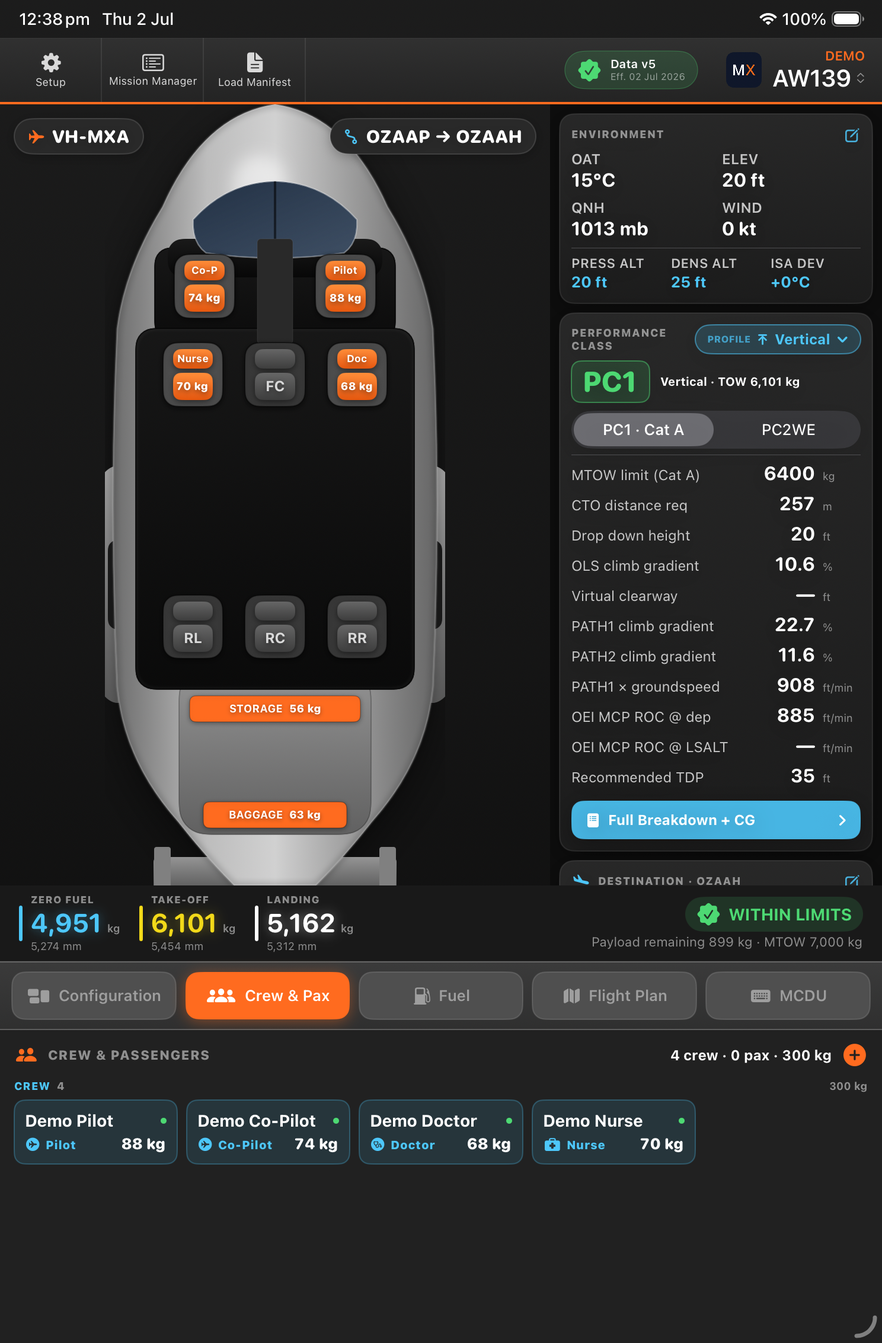
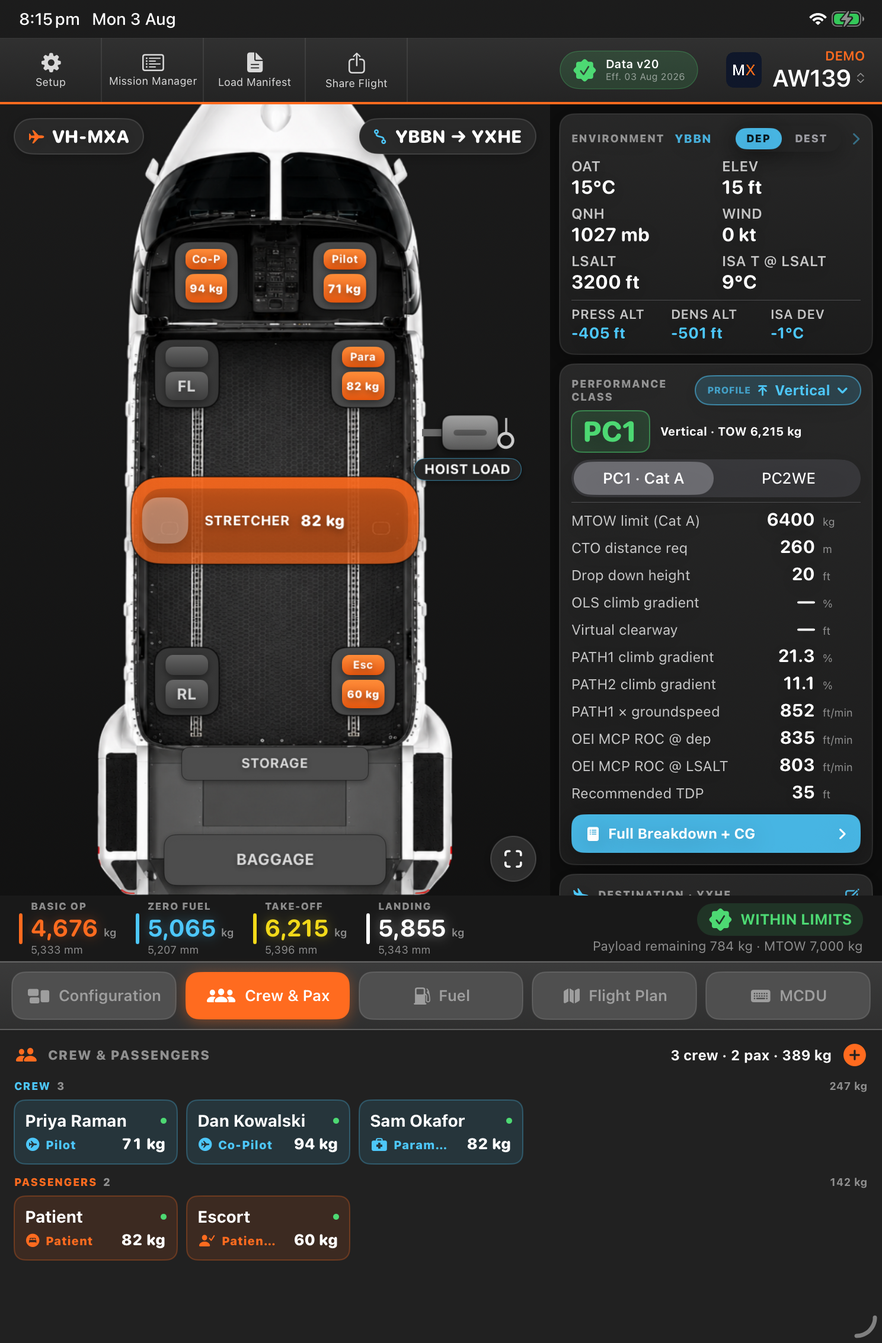
Update screenshots and showcase Mission Editor

diff --git a/index.html b/index.html
@@ -247,7 +247,7 @@ header.nav.scrolled{border-bottom-color:var(--line);background:rgba(7,10,16,.9)}
 .step p{color:var(--muted);font-size:.9rem}
 
 /* ---------- Gallery ---------- */
-.gallery{display:grid;grid-template-columns:repeat(5,1fr);gap:16px;margin-top:50px}
+.gallery{display:grid;grid-template-columns:repeat(6,1fr);gap:14px;margin-top:50px}
 .gallery .shot{border:1px solid var(--line);border-radius:14px;overflow:hidden;background:#0a0d14;transition:transform .25s,border-color .25s}
 .gallery .shot:hover{transform:translateY(-6px) scale(1.02);border-color:var(--orange)}
 .gallery .shot img{width:100%}
@@ -294,6 +294,31 @@ header.nav.scrolled{border-bottom-color:var(--line);background:rgba(7,10,16,.9)}
 .op-help{color:var(--muted);font-size:.88rem}
 .op-help a{color:var(--orange);font-weight:600}
 @media(max-width:980px){.op-grid{grid-template-columns:1fr;gap:36px}}
+
+/* ---------- Mac window frame + editor showcase ---------- */
+.macwin{position:relative;border-radius:14px;overflow:hidden;border:1px solid var(--line-strong);background:#0d1119;box-shadow:var(--shadow)}
+.macwin img{width:100%;display:block}
+.ed-hero{display:grid;grid-template-columns:1fr;gap:0;margin-top:46px}
+.ed-hero .macwin{transform:perspective(2000px) rotateX(2deg);transition:transform .6s}
+.ed-hero .macwin:hover{transform:none}
+.ed-caption{display:flex;flex-wrap:wrap;gap:10px;justify-content:center;margin-top:22px}
+.ed-chip{display:inline-flex;align-items:center;gap:8px;padding:8px 15px;border-radius:100px;font-size:.86rem;color:var(--muted);background:rgba(255,255,255,.04);border:1px solid var(--line)}
+.ed-chip b{color:#fff;font-weight:600}
+.ed-rows{margin-top:clamp(60px,8vw,100px);display:flex;flex-direction:column;gap:clamp(56px,8vw,96px)}
+.edrow{display:grid;grid-template-columns:1fr 1.25fr;gap:52px;align-items:center}
+.edrow.rev .ed-txt{order:2}.edrow.rev .ed-shot{order:1}
+.ed-txt h3{font-size:clamp(1.4rem,2.4vw,1.9rem);margin:16px 0 14px;letter-spacing:-.02em}
+.ed-txt p{color:var(--muted);font-size:1.02rem}
+.ed-tag{display:inline-flex;align-items:center;gap:8px;font-size:.74rem;font-weight:700;letter-spacing:.16em;text-transform:uppercase;color:var(--cyan);padding:6px 12px;border:1px solid rgba(77,199,250,.3);border-radius:100px;background:rgba(77,199,250,.08)}
+.ed-tag.new{color:var(--orange-soft);border-color:rgba(255,107,31,.35);background:rgba(255,107,31,.1)}
+.ed-mini{display:grid;grid-template-columns:repeat(3,1fr);gap:18px;margin-top:clamp(56px,7vw,88px)}
+.ed-mini .m{background:linear-gradient(160deg,var(--surface),var(--bg-2));border:1px solid var(--line);border-radius:16px;overflow:hidden;transition:transform .25s,border-color .25s}
+.ed-mini .m:hover{transform:translateY(-5px);border-color:var(--line-strong)}
+.ed-mini .m img{width:100%;display:block;border-bottom:1px solid var(--line)}
+.ed-mini .m .b{padding:18px 20px}
+.ed-mini .m h4{font-size:1rem;color:#fff;margin-bottom:6px}
+.ed-mini .m p{color:var(--muted);font-size:.87rem;line-height:1.5}
+@media(max-width:980px){.edrow{grid-template-columns:1fr;gap:28px}.edrow.rev .ed-txt,.edrow.rev .ed-shot{order:initial}.ed-mini{grid-template-columns:1fr}}
 
 /* ---------- Contact ---------- */
 .contact-grid{display:grid;grid-template-columns:.9fr 1.1fr;gap:56px;align-items:start}
@@ -425,10 +450,10 @@ footer{border-top:1px solid var(--line);margin-top:clamp(60px,9vw,110px);padding
     <div class="reveal">
       <span class="eyebrow">⬡ Mission Management · Weight · Balance · Performance</span>
       <h1>The mission-prep flight deck for your <span class="accent">whole fleet</span>.</h1>
-      <p class="lead">MissionXtra turns weight &amp; balance, performance, fuel, weather and risk into one fast, tap-driven iPad flight deck. The AW139 leads the way, with a growing list of rotary-wing types behind it — built by operational helicopter pilots for EMS, SAR and offshore operators.</p>
+      <p class="lead">MissionXtra turns weight &amp; balance, performance, fuel, weather, crew rostering and landing-site data into one fast, tap-driven iPad flight deck — paired with a Mac editor that keeps your whole fleet in sync. Built by operational helicopter pilots for EMS, SAR and offshore operators.</p>
       <div class="hero-cta">
-        <a href="#download" class="btn btn-primary btn-lg">Get MissionXtra</a>
-        <a href="#operator" class="btn btn-ghost btn-lg">Operator login</a>
+        <a href="#download" class="btn btn-primary btn-lg">Get the iPad app</a>
+        <a href="#editor" class="btn btn-ghost btn-lg">See the Mission Editor</a>
       </div>
       <div class="hero-meta">
         <span><i class="dot or"></i> Built natively in Swift</span>
@@ -443,11 +468,11 @@ footer{border-top:1px solid var(--line);margin-top:clamp(60px,9vw,110px);padding
         <div><b>Within limits</b><small>Live CG &amp; mass check</small></div>
       </div>
       <div class="badge-float bf-2">
-        <span class="ic" style="background:rgba(255,107,31,.15);color:var(--orange)">⛽</span>
-        <div><b>2:53 endurance</b><small>To reserve · live fuel</small></div>
+        <span class="ic" style="background:rgba(77,199,250,.15);color:var(--cyan)">📈</span>
+        <div><b>PC1 · Cat A</b><small>Live performance class</small></div>
       </div>
       <div class="ipad hero-ipad">
-        <img src="assets/screens/deck-fuel.png" alt="MissionXtra flight deck showing the AW139 seat map, environment, performance and fuel" loading="eager"/>
+        <img src="assets/screens/deck-hero.png" alt="MissionXtra flight deck showing the cabin seat map, environment, performance class and dual CG envelopes" loading="eager"/>
       </div>
     </div>
   </div>
@@ -473,11 +498,11 @@ footer{border-top:1px solid var(--line);margin-top:clamp(60px,9vw,110px);padding
     </div>
     <div class="cards">
       <div class="card reveal"><div class="ico">🧮</div><h3>Live tap-to-load W&amp;B</h3><p>Load crew, patients, equipment and fuel directly on a scaled aircraft fuselage. CG, limits and margins recompute instantly — no spreadsheet juggling.</p></div>
-      <div class="card cy reveal"><div class="ico">📈</div><h3>RFM-accurate performance</h3><p>RFM Cat A take-off procedures, WAT limits, OEI climb, CTO/RTO distances and Height-Velocity — computed for your exact conditions.</p></div>
-      <div class="card gd reveal"><div class="ico">🌦</div><h3>Live weather &amp; fuel</h3><p>METAR/TAF auto-fills per leg with no login. Endurance, time-to-reserve and below-reserve alerts at a glance.</p></div>
-      <div class="card cy reveal"><div class="ico">🗺</div><h3>Mission planning &amp; import</h3><p>Build multi-leg missions in seconds or AirDrop an OzRunways plan — legs, LSALT, fuel and ETAs parse straight in.</p></div>
-      <div class="card reveal"><div class="ico">🛡</div><h3>Risk assessment &amp; signed manifest</h3><p>A structured flight risk-assessment tool plus a professional, finger-signed A4 load manifest PDF — shared in a tap.</p></div>
-      <div class="card gd reveal"><div class="ico">✈</div><h3>MCDU read-across</h3><p>A faithful AW139 PERFORMANCE INIT-KG CDU page so you can transcribe straight into the aircraft FMS.</p></div>
+      <div class="card cy reveal"><div class="ico">📈</div><h3>Obstacle-aware performance</h3><p>Five RFM take-off procedures and four landing techniques, with the app solving for the lowest TDP that clears your obstacle — and flagging when you fall outside PC1.</p></div>
+      <div class="card gd reveal"><div class="ico">📍</div><h3>Your own HLS register</h3><p>Surveyed landing sites with their real approach and departure obstacles — pre-filling the performance page the moment a leg lands there.</p></div>
+      <div class="card cy reveal"><div class="ico">🌦</div><h3>Weather that follows the plan</h3><p>Departure METAR at take-off, destination TAF at ETA — auto-refreshed per leg, with area-QNH fallback for off-aerodrome sites.</p></div>
+      <div class="card reveal"><div class="ico">🗓</div><h3>Shift roster, synced</h3><p>Day and night crews rostered per base in the editor, published to every iPad — so the right crew loads with one tap.</p></div>
+      <div class="card gd reveal"><div class="ico">📋</div><h3>Manifest, report &amp; share</h3><p>A signed A4 load manifest, an end-of-mission flight report, and one-tap AirDrop of the whole flight to another crew's iPad.</p></div>
     </div>
   </div>
 </section>
@@ -498,16 +523,17 @@ footer{border-top:1px solid var(--line);margin-top:clamp(60px,9vw,110px);padding
           <li><span class="tick">✓</span><div><b>SUPP kit MTOW handling</b><small>6,400 → 6,800 → 7,000 kg, driven by each tail's fitted kits.</small></div></li>
         </ul>
       </div>
-      <div class="fmedia"><div class="glow"></div><div class="ipad"><img src="assets/screens/cg-envelope.png" alt="Dual CG envelope charts with the loading line"/></div></div>
+      <div class="fmedia"><div class="glow"></div><div class="ipad"><img src="assets/screens/load-manifest.png" alt="Signed A4 load manifest with item table and dual CG envelope charts"/></div></div>
     </div>
 
     <div class="feature-row rev reveal">
       <div class="ftext">
         <span class="eyebrow">Crew &amp; Cabin</span>
-        <h2>Your roster, weights and configs — already loaded</h2>
-        <p>Crew names and weights sync from your operator, so you stop re-entering them every flight. Switch cabin configurations — IHT, 12-pax, winch — and watch every limit and station update live.</p>
+        <h2>Today's crew, already on the aircraft</h2>
+        <p>Your operator rosters day and night crews per base in the Mission Editor. The iPad knows which shift is on now — load the whole crew with one tap, with weights already verified. Switch cabin configurations and every limit and station updates live.</p>
         <ul class="flist">
-          <li><span class="tick">✓</span><div><b>Synced crew directory</b><small>Name auto-fill with weights maintained centrally.</small></div></li>
+          <li><span class="tick">✓</span><div><b>One-tap shift crew</b><small>The roster for this base and this shift, loaded and seated.</small></div></li>
+          <li><span class="tick">✓</span><div><b>Roster-change advisory</b><small>Tells you who's in and who's out — seats are never changed without you.</small></div></li>
           <li><span class="tick">✓</span><div><b>Per-config equipment toggles</b><small>Fit or remove items and add ad-hoc equipment for this flight.</small></div></li>
           <li><span class="tick">✓</span><div><b>Placard &amp; station overload detection</b><small>Master-caution alert names the exact violation.</small></div></li>
         </ul>
@@ -519,14 +545,15 @@ footer{border-top:1px solid var(--line);margin-top:clamp(60px,9vw,110px);padding
       <div class="ftext">
         <span class="eyebrow">Fuel · Weather · Route</span>
         <h2>Every leg gets the forecast for <em>its</em> time</h2>
-        <p>Build a route from ICAO codes or lat/long, or import the plan you already made. Per-leg TAF interpolation, area QNH fallback for scene sites and terrain-grid elevation mean usable weather even off-aerodrome — with endurance and reserves front and centre.</p>
+        <p>Build a route from ICAO codes or lat/long, or import the plan you already made. The app pulls the departure METAR for take-off and the destination TAF for your ETA — with area-QNH fallback for scene sites and terrain elevation for bare coordinates.</p>
         <ul class="flist">
+          <li><span class="tick">✓</span><div><b>Weather follows the flight plan</b><small>Departure and destination refresh per leg, automatically.</small></div></li>
           <li><span class="tick">✓</span><div><b>OzRunways .ozpln import</b><small>Fly the plan you built — no re-keying.</small></div></li>
-          <li><span class="tick">✓</span><div><b>BoM → PilotAssist → NOAA fallback</b><small>Real conditions, no separate subscription.</small></div></li>
+          <li><span class="tick">✓</span><div><b>Per-leg configurations</b><small>Depart in one fit, return in another — each leg keeps its own.</small></div></li>
           <li><span class="tick">✓</span><div><b>Endurance &amp; below-reserve alerting</b><small>Instant fuel-state confidence for the whole mission.</small></div></li>
         </ul>
       </div>
-      <div class="fmedia"><div class="glow"></div><div class="ipad"><img src="assets/screens/flight-plan.png" alt="Multi-leg flight plan with per-leg weather"/></div></div>
+      <div class="fmedia"><div class="glow"></div><div class="ipad"><img src="assets/screens/flight-plan.png" alt="Multi-leg flight plan with per-leg departure and destination weather"/></div></div>
     </div>
 
   </div>
@@ -542,17 +569,17 @@ footer{border-top:1px solid var(--line);margin-top:clamp(60px,9vw,110px);padding
     </div>
     <div class="spotlight reveal">
       <div class="s-text">
-        <span class="pill amber">⚠ Capability flagged at TOW</span>
-        <h2 style="font-size:clamp(1.6rem,2.6vw,2.2rem);margin:18px 0 14px">Drag the rotate height. Watch obstacle clearance update.</h2>
-        <p style="color:var(--muted);font-size:1.02rem">Vertical, Clear Area, Confined Area, Short Field and Back-Up take-offs each carry their own WAT limit, OEI climb and CTO/RTO distances. The live Take-Off and Obstacle profiles turn green when the path is suitable — and the app never hides when you're outside PC1.</p>
+        <span class="pill green">✓ PC1 · Cat A at TOW 6,215 kg</span>
+        <h2 style="font-size:clamp(1.6rem,2.6vw,2.2rem);margin:18px 0 14px">It solves for the lowest TDP that clears your obstacle.</h2>
+        <p style="color:var(--muted);font-size:1.02rem">Vertical, Clear Area, Confined Area, Short Field and Back-Up take-offs each carry their own WAT limit, OEI climb and distances. Enter the obstacle and MissionXtra searches the Cat A band for the lowest rotate height that clears it — then tells you plainly when no TDP will, and drops you to PC2WE rather than hiding it.</p>
         <ul class="flist" style="margin-top:22px">
-          <li><span class="tick">✓</span><div><b>5 RFM Cat A procedures</b></div></li>
-          <li><span class="tick">✓</span><div><b>WAT, OEI ROC, PATH2 gradient, HOGE, density altitude</b></div></li>
-          <li><span class="tick">✓</span><div><b>Departure &amp; landing phases, plus the HV avoid-curve</b></div></li>
-          <li><span class="tick">✓</span><div><b>RFM chart browser with weight crosshair</b><small>Trace every figure back to the approved source chart.</small></div></li>
+          <li><span class="tick">✓</span><div><b>5 take-off procedures · 4 landing techniques</b><small>Heliport, Confined, Offshore Helideck and Clear Area, each with its own LDP.</small></div></li>
+          <li><span class="tick">✓</span><div><b>Live take-off, obstacle &amp; landing profiles</b><small>Drawn to scale with PATH 1 / PATH 2, drop-down and V<sub>TOSS</sub>.</small></div></li>
+          <li><span class="tick">✓</span><div><b>Rearward &amp; lateral obstacle checks</b><small>Confined-area zone and site-width checks, not just the front.</small></div></li>
+          <li><span class="tick">✓</span><div><b>WAT, OEI ROC, PATH2 gradient, CTO distance, HOGE</b></div></li>
         </ul>
       </div>
-      <div class="s-media"><div class="ipad"><img src="assets/screens/performance-takeoff.png" alt="Performance take-off profile with rotate/TDP slider"/></div></div>
+      <div class="s-media"><div class="ipad"><img src="assets/screens/perf-confined.png" alt="Confined-area take-off profile showing the rearward climb, TDP and obstacle clearance"/></div></div>
     </div>
   </div>
 </section>
@@ -560,35 +587,74 @@ footer{border-top:1px solid var(--line);margin-top:clamp(60px,9vw,110px);padding
 <!-- MISSION EDITOR -->
 <section class="block editor-sec" id="editor">
   <div class="wrap">
-    <div class="section-head reveal" style="margin-bottom:54px">
-      <span class="eyebrow">For operators · Mac app &amp; web portal</span>
+    <div class="section-head reveal" style="margin-bottom:10px">
+      <span class="eyebrow">For operators · Mac app</span>
       <h2 style="margin-top:18px">The Mission Editor — your fleet's command centre</h2>
-      <p class="lead">A native macOS app and secure web portal where operators author, sign off and publish their own approved data over-the-air to every pilot's iPad. Author → sign off &amp; validate → publish → your crews fly it.</p>
+      <p class="lead">A native Mac app where your team authors aircraft, configurations, crew, rosters and landing sites — then publishes it over-the-air to every pilot's iPad. Author → check → publish → your crews fly it.</p>
     </div>
-    <div class="editor-grid reveal">
-      <div>
-        <div class="flow"><b>Author</b><span class="arrow">→</span><b>Sign off &amp; lock</b><span class="arrow">→</span><b>Publish OTA</b><span class="arrow">→</span><b>Pilots fly it</b></div>
-        <div class="editor-feats">
-          <div class="efeat"><div class="h">📐 Aircraft &amp; templates</div><p>Tail editor with BEM, CG arms and SUPP kits. Duplicate a sister ship or start a new operator from a clean template — never with another customer's data.</p></div>
-          <div class="efeat"><div class="h">✏ RFM chart digitiser</div><p>Calibrate two points, click the curve and turn paper or PDF flight-manual charts into precise digital performance data.</p></div>
-          <div class="efeat"><div class="h">🔒 Sign off &amp; comply</div><p>Lock W&amp;B with a signed weighing report, track re-weigh dates and drift, and see a fleet-wide sign-off dashboard.</p></div>
-          <div class="efeat"><div class="h">📡 Publish with a gate</div><p>A "flight-ready" pre-publish check blocks release until tails, configs, sign-off and data integrity all pass — versioned and checksummed.</p></div>
-          <div class="efeat"><div class="h">🏢 Operator management</div><p>Run dozens of customers from one screen: plans, seat limits, trials, branding, instant suspend/restore.</p></div>
-          <div class="efeat"><div class="h">📋 Audit &amp; billing</div><p>Append-only activity log with CSV export for compliance, plus metered per-aircraft billing and branded tax invoices.</p></div>
-        </div>
+
+    <div class="ed-hero reveal">
+      <div class="macwin"><img src="assets/editor/shift-roster.png" alt="MissionXtra Mission Editor showing the Shift Roster with day and night crews across a month"/></div>
+      <div class="ed-caption">
+        <span class="ed-chip"><b>Aircraft</b> BEM &amp; CG arms</span>
+        <span class="ed-chip"><b>Configurations</b> equipment lists</span>
+        <span class="ed-chip"><b>Crew Directory</b> names &amp; weights</span>
+        <span class="ed-chip"><b>Shift Roster</b> day / night per base</span>
+        <span class="ed-chip"><b>HLS Register</b> surveyed sites</span>
+        <span class="ed-chip"><b>Restore Data</b> point-in-time</span>
       </div>
-      <div class="editor-visual">
-        <div class="topbar"><i class="tb1"></i><i class="tb2"></i><i class="tb3"></i></div>
-        <div style="font-weight:700;margin-bottom:14px;display:flex;align-items:center;gap:10px"><img src="assets/icon-64.png" style="width:22px;height:22px;border-radius:6px"/> MissionXtra Mission Editor</div>
-        <div class="ed-row"><div class="l">🚁 VH-MXA · AW139</div><span class="tag cert">APPROVED</span></div>
-        <div class="ed-row"><div class="l">🚁 VH-MXB · AW139</div><span class="tag due">RE-WEIGH DUE</span></div>
-        <div class="ed-row"><div class="l">⚙ Utility Transport · 6 seat</div><span class="tag cert">VALID</span></div>
-        <div class="ed-row"><div class="l">📊 Performance · Vertical T/O</div><span class="tag live">DIGITISED</span></div>
-        <div class="pub">
-          <div><b>✓ Flight-ready</b><div style="font-size:.8rem;color:var(--muted)">All 4 checks passed · v25</div></div>
-          <span class="btn btn-primary" style="padding:9px 16px;font-size:.85rem">Publish to Fleet</span>
+    </div>
+
+    <div class="ed-rows">
+
+      <div class="edrow reveal">
+        <div class="ed-txt">
+          <span class="ed-tag new">New · Shift Roster</span>
+          <h3>Roster day and night crews, weeks ahead</h3>
+          <p>Drag crew onto a shift, set a recurring weekly pattern, or copy a whole week forward. Expiring qualifications are flagged on the date the crew will actually fly — not just today. Publish once and every pilot's iPad loads the right crew with a single tap.</p>
+          <ul class="flist" style="margin-top:20px">
+            <li><span class="tick">✓</span><div><b>Day, Week and Month views</b><small>Per base, with a floating hub pool for shared crew.</small></div></li>
+            <li><span class="tick">✓</span><div><b>Recurring weekly patterns</b><small>Auto-fill every matching date, then override the exceptions.</small></div></li>
+            <li><span class="tick">✓</span><div><b>Qualification badges</b><small>Advisory only — it never blocks a roster.</small></div></li>
+          </ul>
         </div>
+        <div class="ed-shot"><div class="macwin"><img src="assets/editor/crew-directory.png" alt="Crew Directory with bases, crew overview and Check &amp; Training compliance"/></div></div>
       </div>
+
+      <div class="edrow rev reveal">
+        <div class="ed-txt">
+          <span class="ed-tag new">New · HLS Register</span>
+          <h3>Turn your site survey folder into live performance data</h3>
+          <p>Record each landing site's surveyed departure and approach obstacles the way the flight manual actually assesses them — balked-landing obstacles beyond the pad, approach obstacles under the path, and the rearward obstacle for confined-area work. When a plan lands there, the pilot's iPad pre-fills elevation, obstacle and limits automatically.</p>
+          <ul class="flist" style="margin-top:20px">
+            <li><span class="tick">✓</span><div><b>Matched to your flight-plan waypoints</b><small>Pairs to the leg by location code.</small></div></li>
+            <li><span class="tick">✓</span><div><b>Annotated site photos</b><small>Aerials and departure-path diagrams on the pilot's site card.</small></div></li>
+            <li><span class="tick">✓</span><div><b>Clearly badged as operator survey data</b><small>Advisory, and overridable in one tap.</small></div></li>
+          </ul>
+        </div>
+        <div class="ed-shot"><div class="macwin"><img src="assets/editor/hls-register.png" alt="HLS Register showing a surveyed site with departure and approach obstacle data"/></div></div>
+      </div>
+
+      <div class="edrow reveal">
+        <div class="ed-txt">
+          <span class="ed-tag new">New · Restore Data</span>
+          <h3>Undo a bad publish yourself, in under a minute</h3>
+          <p>Every version you've ever published is kept and checksum-verified. Pick an earlier point, read a plain-English diff of what comes back and what goes, and re-publish. Nothing is deleted, so you can always roll forward again — and signed-off tails are protected from rollback by design.</p>
+          <ul class="flist" style="margin-top:20px">
+            <li><span class="tick">✓</span><div><b>Full publish history</b><small>The current release is badged so you always know what pilots hold.</small></div></li>
+            <li><span class="tick">✓</span><div><b>Integrity checked before restore</b><small>A corrupt backup simply won't be applied.</small></div></li>
+            <li><span class="tick">✓</span><div><b>No support ticket required</b><small>Operators recover their own data.</small></div></li>
+          </ul>
+        </div>
+        <div class="ed-shot"><div class="macwin"><img src="assets/editor/restore-data.png" alt="Restore Data showing the publish history timeline with the current release badged"/></div></div>
+      </div>
+
+    </div>
+
+    <div class="ed-mini">
+      <div class="m reveal"><img src="assets/editor/configurations.png" alt="Configurations editor with equipment item list"/><div class="b"><h4>Configurations &amp; equipment</h4><p>Build each cabin fit item by item, preview the W&amp;B before you publish, and save any config as a reusable template.</p></div></div>
+      <div class="m reveal"><img src="assets/editor/live-ipads.png" alt="Live on pilots' iPads showing in-sync status"/><div class="b"><h4>Live on pilots' iPads</h4><p>See at a glance whether your crews hold your latest release — with the live version, publish time and change note.</p></div></div>
+      <div class="m reveal"><img src="assets/editor/aircraft.png" alt="Aircraft editor with basic empty mass and CG arms"/><div class="b"><h4>Aircraft, imports &amp; reports</h4><p>Paste a fleet straight from a spreadsheet, duplicate a sister ship, and export branded fleet reports and activity history.</p></div></div>
     </div>
   </div>
 </section>
@@ -599,9 +665,10 @@ footer{border-top:1px solid var(--line);margin-top:clamp(60px,9vw,110px);padding
     <div class="op-grid reveal">
       <div class="op-text">
         <span class="eyebrow">Operators</span>
-        <h2 style="margin:18px 0 16px">Manage your fleet from anywhere</h2>
-        <p style="color:var(--muted);font-size:1.05rem">Sign in to the MissionXtra operator portal to edit your aircraft, configurations, crew and branding, then publish approved data over-the-air to every pilot's iPad. The web portal and the macOS Mission Editor share one backend, so your fleet stays perfectly in sync.</p>
+        <h2 style="margin:18px 0 16px">Your portal — and where the Editor lives</h2>
+        <p style="color:var(--muted);font-size:1.05rem">Sign in to the MissionXtra client portal to <b style="color:#fff">download the Mission Editor for Mac</b> and manage your fleet online. The Editor isn't sold in any app store — it's issued to operators through this portal, and keeps itself up to date automatically once installed.</p>
         <ul class="flist" style="margin-top:24px">
+          <li><span class="tick">✓</span><div><b>Download the Mission Editor</b><small>Signed &amp; notarised Mac app, for licensed operators only.</small></div></li>
           <li><span class="tick">✓</span><div><b>Edit aircraft, configs, crew &amp; branding</b><small>Everything your pilots see, managed in one place.</small></div></li>
           <li><span class="tick">✓</span><div><b>Publish versioned data over-the-air</b><small>Full version history with one-click rollback.</small></div></li>
           <li><span class="tick">✓</span><div><b>Secured with two-factor authentication</b><small>Each operator's data is isolated with row-level security.</small></div></li>
@@ -631,8 +698,8 @@ footer{border-top:1px solid var(--line);margin-top:clamp(60px,9vw,110px);padding
     </div>
     <div class="steps">
       <div class="step reveal"><h3>Pick aircraft &amp; config</h3><p>Choose the tail and cabin configuration — your operator's approved data is already synced.</p></div>
-      <div class="step reveal"><h3>Load the cabin</h3><p>Tap or drag crew, patients, equipment and fuel onto the seat map and watch CG settle live.</p></div>
-      <div class="step reveal"><h3>Plan &amp; assess</h3><p>Add the route, pull weather and performance, then run the risk assessment for a documented go/no-go.</p></div>
+      <div class="step reveal"><h3>Load the cabin</h3><p>Load today's shift crew with one tap, add patients and equipment, and watch CG settle live.</p></div>
+      <div class="step reveal"><h3>Plan &amp; check</h3><p>Add the route, pull per-leg weather, and check the take-off and landing profiles against your obstacles.</p></div>
       <div class="step reveal"><h3>Sign &amp; share</h3><p>Capture the PIC signature and share a professional A4 load manifest PDF — paperless.</p></div>
     </div>
   </div>
@@ -647,16 +714,18 @@ footer{border-top:1px solid var(--line);margin-top:clamp(60px,9vw,110px);padding
       <p class="lead">Premium, glanceable, glove-friendly — with Night, Sunlight, Daylight and Auto themes.</p>
     </div>
     <div class="gallery">
-      <div class="shot reveal"><img src="assets/screens/deck-fuel.png" alt="Flight deck"/><div class="cap">Flight deck &amp; fuel</div></div>
-      <div class="shot reveal"><img src="assets/screens/cg-envelope.png" alt="CG envelopes"/><div class="cap">CG envelopes</div></div>
-      <div class="shot reveal"><img src="assets/screens/performance-obstacle.png" alt="Obstacle profile"/><div class="cap">Obstacle profile</div></div>
-      <div class="shot reveal"><img src="assets/screens/mcdu.png" alt="MCDU page"/><div class="cap">MCDU INIT</div></div>
+      <div class="shot reveal"><img src="assets/screens/deck-hero.png" alt="Flight deck"/><div class="cap">Flight deck</div></div>
+      <div class="shot reveal"><img src="assets/screens/perf-vertical.png" alt="Vertical take-off profile"/><div class="cap">Take-off profile</div></div>
+      <div class="shot reveal"><img src="assets/screens/perf-confined.png" alt="Confined area profile"/><div class="cap">Confined area</div></div>
+      <div class="shot reveal"><img src="assets/screens/perf-obstacle.png" alt="Obstacle profile"/><div class="cap">Obstacle profile</div></div>
       <div class="shot reveal"><img src="assets/screens/load-manifest.png" alt="Load manifest PDF"/><div class="cap">Signed manifest</div></div>
       <div class="shot reveal"><img src="assets/screens/crew-pax.png" alt="Crew and pax"/><div class="cap">Crew &amp; pax</div></div>
+      <div class="shot reveal"><img src="assets/screens/fuel.png" alt="Fuel and endurance"/><div class="cap">Fuel &amp; endurance</div></div>
       <div class="shot reveal"><img src="assets/screens/flight-plan.png" alt="Flight plan"/><div class="cap">Route &amp; weather</div></div>
       <div class="shot reveal"><img src="assets/screens/mission-manager.png" alt="Mission manager"/><div class="cap">Mission manager</div></div>
-      <div class="shot reveal"><img src="assets/screens/performance-takeoff.png" alt="Take-off profile"/><div class="cap">Take-off profile</div></div>
-      <div class="shot reveal"><img src="assets/screens/setup-branding.png" alt="Setup"/><div class="cap">Setup &amp; kits</div></div>
+      <div class="shot reveal"><img src="assets/screens/flight-report.png" alt="Flight report"/><div class="cap">Flight report</div></div>
+      <div class="shot reveal"><img src="assets/screens/mcdu.png" alt="MCDU page"/><div class="cap">MCDU INIT</div></div>
+      <div class="shot reveal"><img src="assets/screens/setup.png" alt="Setup"/><div class="cap">Setup &amp; kits</div></div>
     </div>
   </div>
 </section>
@@ -676,7 +745,7 @@ footer{border-top:1px solid var(--line);margin-top:clamp(60px,9vw,110px);padding
         <ol>
           <li><b>Open Setup</b> and confirm the tail and fitted SUPP kits.</li>
           <li><b>Pick a configuration</b> on the Configuration tab.</li>
-          <li><b>Tap a seat</b> and enter a weight, or drag a crew card on.</li>
+          <li>On <b>Crew &amp; Pax</b>, add today's shift crew with one tap.</li>
           <li><b>Add fuel</b> on the Fuel tab and read the live verdict.</li>
           <li>Confirm the badge shows <b>Within Limits</b>.</li>
         </ol>
@@ -696,33 +765,33 @@ footer{border-top:1px solid var(--line);margin-top:clamp(60px,9vw,110px);padding
         <div class="step-tag">GUIDE 03</div>
         <h3>Run performance for the site</h3>
         <ol>
-          <li>Tap <b>Full Breakdown</b> to open Performance.</li>
+          <li>Tap <b>Full Breakdown + CG</b> to open Performance.</li>
           <li>Select the <b>take-off procedure</b> (Vertical, Confined…).</li>
-          <li>Enter <b>site elevation and obstacles</b>.</li>
-          <li>Drag the <b>Rotate/TDP slider</b> until the path is green.</li>
-          <li>Cross-check figures in the <b>RFM chart browser</b>.</li>
+          <li>Enter <b>site elevation and obstacles</b> — or let the HLS Register fill them.</li>
+          <li>Drag the <b>Rotate / TDP slider</b> until the path is green.</li>
+          <li>Switch to <b>Obstacle Profile</b> to confirm clearance.</li>
         </ol>
       </div>
       <div class="guide reveal">
         <div class="step-tag">GUIDE 04</div>
-        <h3>Assess risk &amp; sign off</h3>
+        <h3>Sign off &amp; close the mission</h3>
         <ol>
-          <li>Open the <b>Risk Assessment</b> tool.</li>
-          <li>Score Crew, Weather, Mission, Aircraft &amp; Environment.</li>
-          <li>Note the <b>LOW / MEDIUM / HIGH</b> band and authority.</li>
-          <li>Open <b>Load Manifest</b> and capture the PIC signature.</li>
+          <li>Open <b>Load Manifest</b> and review the item table.</li>
+          <li>Capture the <b>PIC signature</b> on glass.</li>
           <li><b>Share</b> the signed A4 PDF to dispatch.</li>
+          <li>Use <b>Share Flight</b> to AirDrop the flight to another crew.</li>
+          <li>After the last leg, open the <b>Flight report</b>.</li>
         </ol>
       </div>
       <div class="guide reveal">
         <div class="step-tag">GUIDE 05 · OPERATORS</div>
-        <h3>Publish data to your fleet</h3>
+        <h3>Roster crews &amp; publish</h3>
         <ol>
-          <li>In the <b>Mission Editor</b>, edit the tail or config.</li>
-          <li><b>Sign off &amp; lock</b> with the weighing report.</li>
-          <li>Clear the <b>flight-ready</b> pre-publish gate.</li>
-          <li>Click <b>Publish to Fleet</b> with a change note.</li>
-          <li>Pilots receive the new <b>versioned data</b> automatically.</li>
+          <li>In the <b>Mission Editor</b>, open <b>Shift Roster</b>.</li>
+          <li>Drag crew onto day and night shifts, or set a <b>weekly pattern</b>.</li>
+          <li>Click <b>Publish Roster</b> to push it to your iPads.</li>
+          <li>Edit tails or configs, then <b>Publish</b> the fleet data.</li>
+          <li>Check <b>Tools → Live on pilots' iPads</b> to confirm they're in sync.</li>
         </ol>
       </div>
       <div class="guide reveal" style="background:linear-gradient(160deg,rgba(255,107,31,.1),var(--bg-2));border-color:rgba(255,107,31,.35);display:flex;flex-direction:column;justify-content:center">
@@ -796,9 +865,11 @@ footer{border-top:1px solid var(--line);margin-top:clamp(60px,9vw,110px);padding
       <details><summary>Is MissionXtra a certified EFB or FMS?</summary><div class="ans">No. MissionXtra is an operational support tool and planning aid. It is <b>not certified</b> by CASA, EASA, FAA or any other aviation regulator as a primary flight-planning system, Electronic Flight Bag (EFB), Flight Management System (FMS), navigation system or aircraft performance-approval tool. It does not replace the approved Rotorcraft Flight Manual — the operator and Pilot in Command remain solely responsible for independently verifying all data, loading, performance and operational decisions. Every screen and manifest states this clearly.</div></details>
       <details><summary>Which aircraft are supported?</summary><div class="ans">The AW139 is the full performance type — weight &amp; balance plus the complete RFM performance suite. The AW109, AS350, B412 and BK117 are supported for weight &amp; balance and MTOW. We can integrate additional types on request.</div></details>
       <details><summary>Does it work offline?</summary><div class="ans">Yes. Synced fleet data, the terrain/elevation grid and the airport database are bundled on the device, and your operator branding shows offline. Live weather needs a connection, but the core W&amp;B and performance work without one.</div></details>
-      <details><summary>How do pilots get the right data?</summary><div class="ans">Operators author and sign off their data in the macOS Mission Editor or the secure web portal, then publish it over-the-air. Each pilot's iPad receives the latest versioned, checksummed data for the types they're assigned — with a status pill and a stale-data warning so they always know what they're flying.</div></details>
+      <details><summary>How do I get the two apps?</summary><div class="ans">The <b>iPad app</b> is downloaded from the Apple App Store, so any pilot can install it and sign in with the credentials their operator issues. The <b>Mission Editor</b> for Mac is not published to any app store — licensed operators download it from their MissionXtra client portal after signing in. It's signed and notarised by Apple, runs on Apple silicon Macs, and updates itself automatically with each release verified by cryptographic signature.</div></details>
+      <details><summary>How do pilots get the right data?</summary><div class="ans">Operators author and sign off their data in the Mission Editor, then publish it over-the-air. Each pilot's iPad receives the latest versioned, checksummed data for the types they're assigned — with a status pill and a stale-data warning so they always know what they're flying. Operators can confirm at a glance via <b>Tools → Live on pilots' iPads</b>.</div></details>
+      <details><summary>What is the HLS Register?</summary><div class="ans">It's your operator's own database of surveyed helicopter landing sites — hospital pads, ALAs and confined sites — recording each one's elevation, limits, contacts, photos and the controlling obstacles on every surveyed approach and departure path. When a pilot's plan lands at a registered site, the iPad pre-fills the performance page from your survey, clearly badged as operator survey data and overridable in one tap. It is advisory information supplied by your organisation, not certified data.</div></details>
       <details><summary>How is our data kept separate and secure?</summary><div class="ans">Each operator's data is isolated at the backend with row-level security, admin keys are held only in the Mac Keychain, the web portal is protected with two-factor authentication, and an append-only audit log records who changed, signed off, suspended or published what — exportable to CSV for your compliance file.</div></details>
-      <details><summary>Who is it built for?</summary><div class="ans">Built by operational helicopter pilots, with a focus on EMS/HEMS, SAR/winch and offshore operators — though it suits any helicopter operator running a supported type. Hoist-aware envelopes, inter-hospital and primary-HEMS mission types, patient configs and the built-in risk assessment all reflect real mission-critical operations.</div></details>
+      <details><summary>Who is it built for?</summary><div class="ans">Built by operational helicopter pilots, with a focus on EMS/HEMS, SAR/winch and offshore operators — though it suits any helicopter operator running a supported type. Hoist-aware envelopes, stretcher and patient configurations, per-base day/night rostering and surveyed landing-site data all reflect real mission-critical operations.</div></details>
     </div>
   </div>
 </section>
@@ -807,13 +878,13 @@ footer{border-top:1px solid var(--line);margin-top:clamp(60px,9vw,110px);padding
 <section class="block" id="download">
   <div class="wrap">
     <div class="cta reveal">
-      <h2>Put a flight deck in every cockpit.</h2>
-      <p class="lead">MissionXtra for iPad is in final testing. Register your interest and we'll let you know the moment it's live on the App Store — or talk to us about bringing your whole fleet onto approved, over-the-air data.</p>
+      <h2>Two apps. One source of truth.</h2>
+      <p class="lead">The iPad app comes from the App Store, so any pilot can install it. The Mission Editor is issued to operators only — you download it from your MissionXtra client portal after signing in.</p>
       <div class="cta-btns">
         <span class="btn btn-primary btn-lg" style="cursor:default"> Coming to the App Store</span>
-        <a href="mailto:admin@missionxtra.com?subject=MissionXtra%20early%20access" class="btn btn-ghost btn-lg">Register your interest</a>
+        <a href="#operator" class="btn btn-ghost btn-lg">⌘ Mission Editor — via client portal</a>
       </div>
-      <p style="color:var(--muted-2);font-size:.84rem;margin-top:20px;position:relative">iPadOS · Free trial at launch · Operator quotes available now</p>
+      <p style="color:var(--muted-2);font-size:.84rem;margin-top:20px;position:relative">iPad app: iPadOS · free trial at launch &nbsp;·&nbsp; Editor: macOS, Apple silicon — signed &amp; notarised, auto-updating</p>
     </div>
   </div>
 </section>
